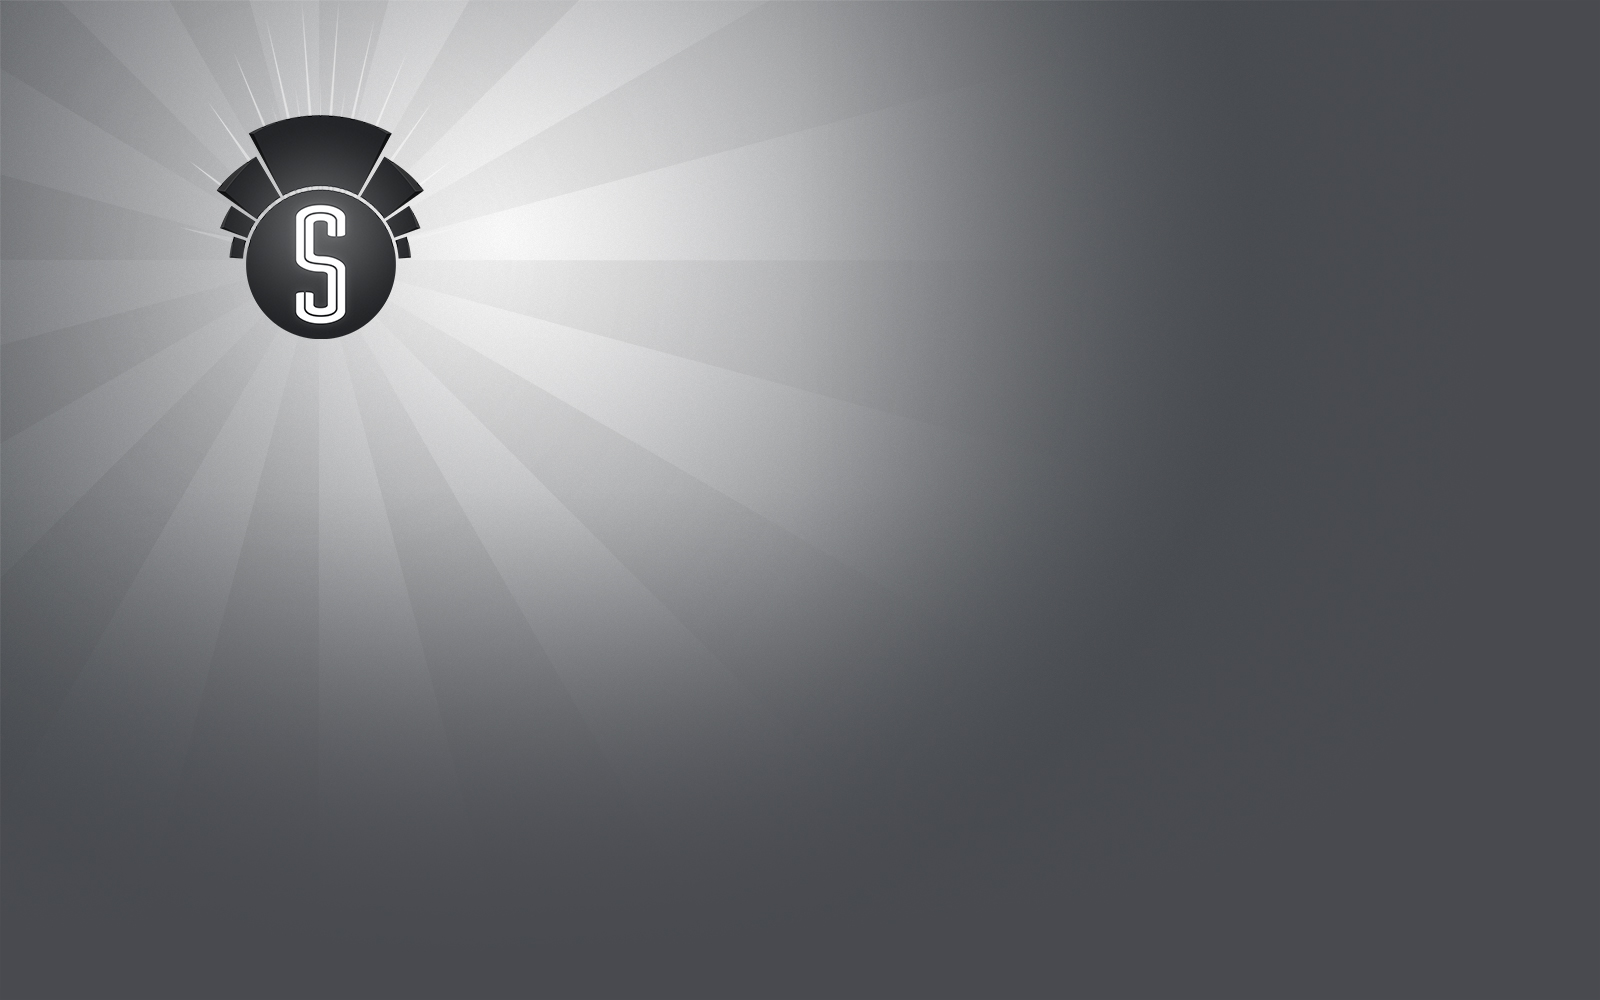
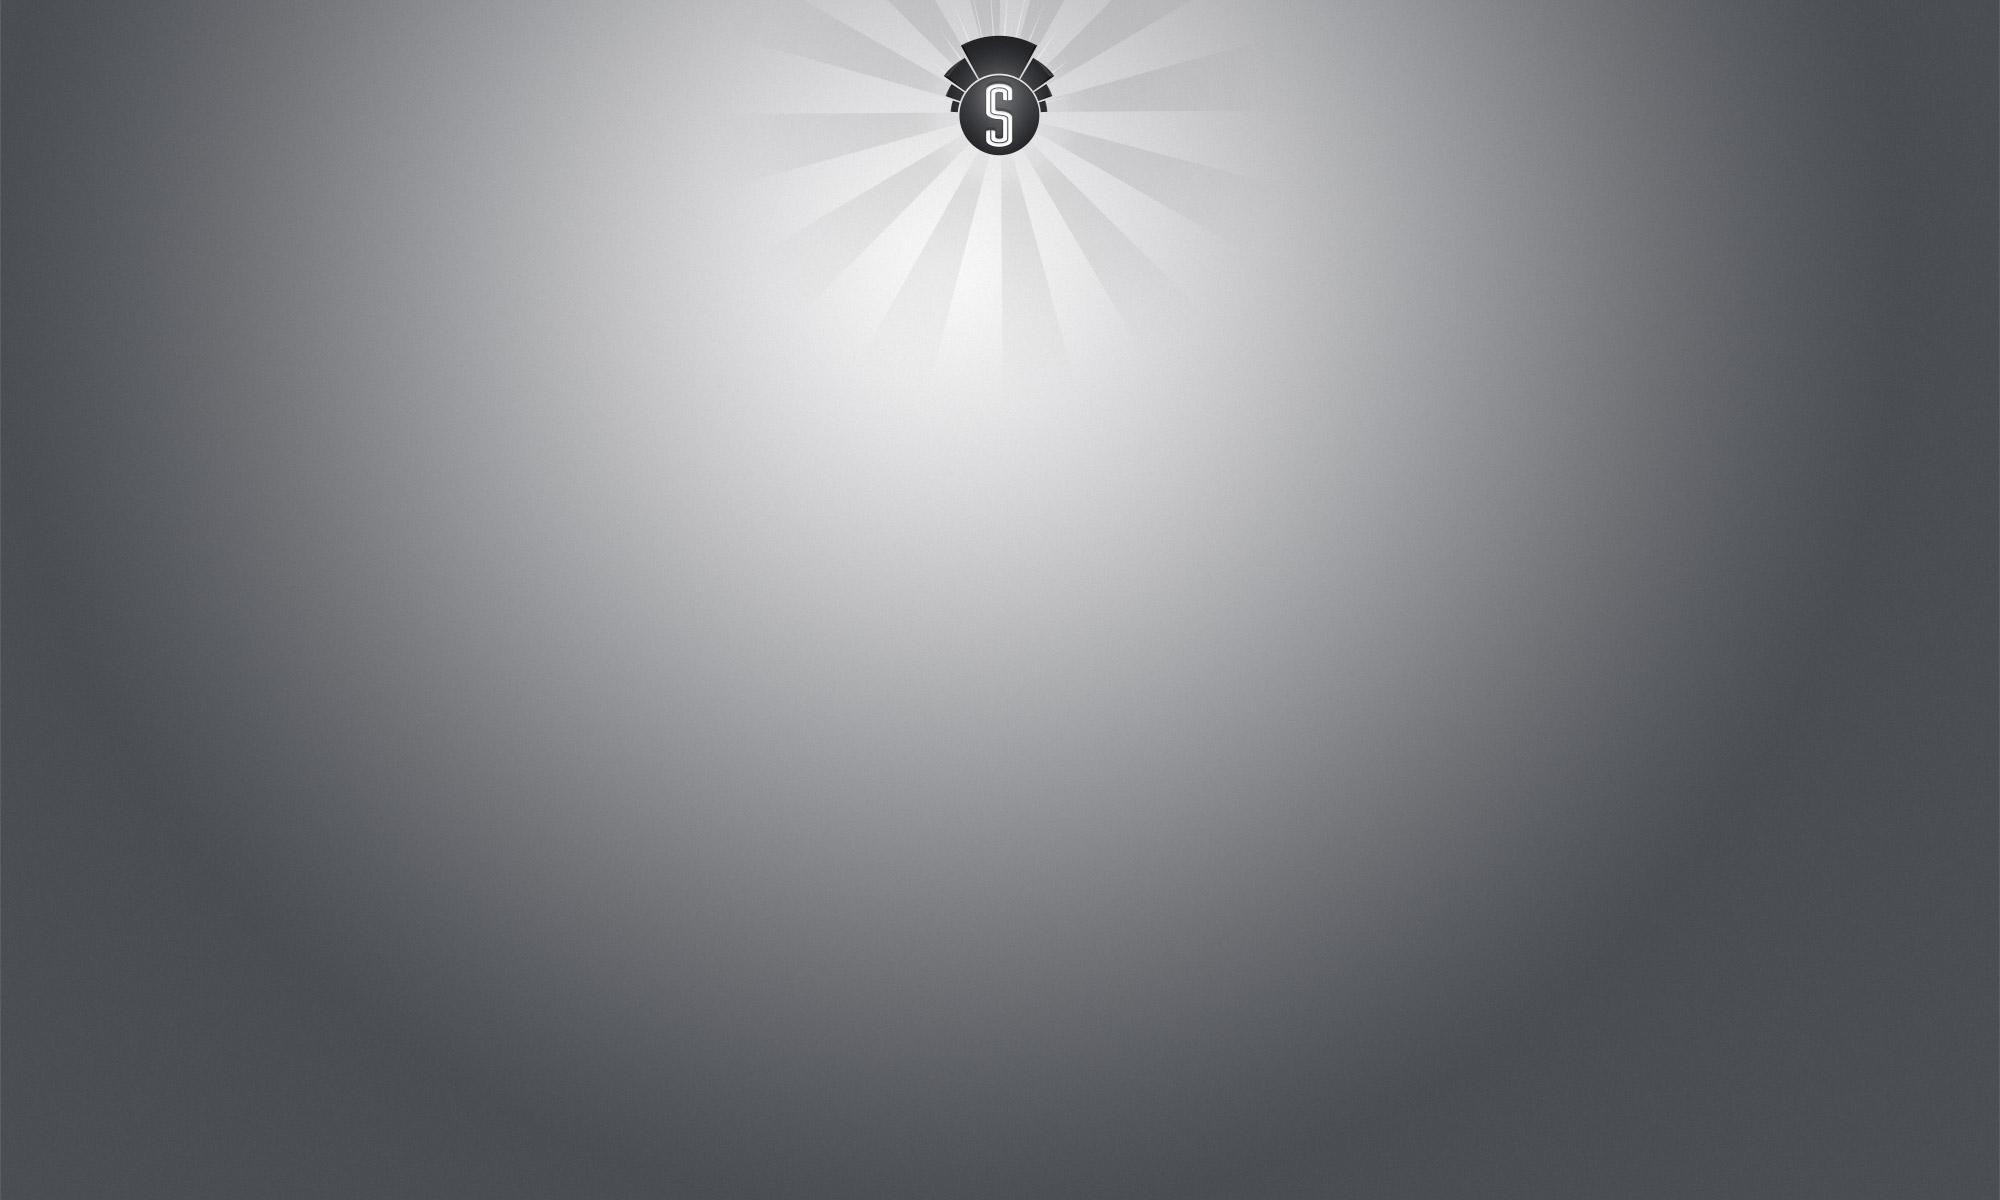
Adjust Sendezentrum stream page

diff --git a/sendezentrum/content/css/style.scss b/sendezentrum/content/css/style.scss
@@ -10,7 +10,7 @@ $break-tablet: 992px;
 }
 
 body {
-  background: url(/img/bkd-sz-484a4f.jpg) no-repeat left top; 
+  background: url(/img/bkd-sz-484a4f.jpg) no-repeat center top; 
   background-color: #494a4f;
   padding: 0;
   margin: 0;
@@ -18,6 +18,13 @@ body {
   font-size: 17px;
   line-height: 1.5;
   color: #2d3841;
+}
+
+@media (-webkit-min-device-pixel-ratio: 2), (min-resolution: 192dpi) {
+  body {
+    background: url(/img/bkd-sz-484a4f@2x.jpg) no-repeat center top;
+    background-size: 2000px 1200px;
+  }
 }
 
 a {
@@ -48,7 +55,7 @@ nav {
 #container {
   max-width: $sidewidth;
   min-width: 300px;
-  margin: 100px auto 200px;
+  margin: 200px auto 50px;
 
   #logo {
     width: 367px;
@@ -144,8 +151,8 @@ article {
 }
 
 footer {
-  background-color: #eb7f00;
-  padding-left: 2%;
+  text-align: center;
+  font-size: 130%;
 
   &, a {
     color: white;
